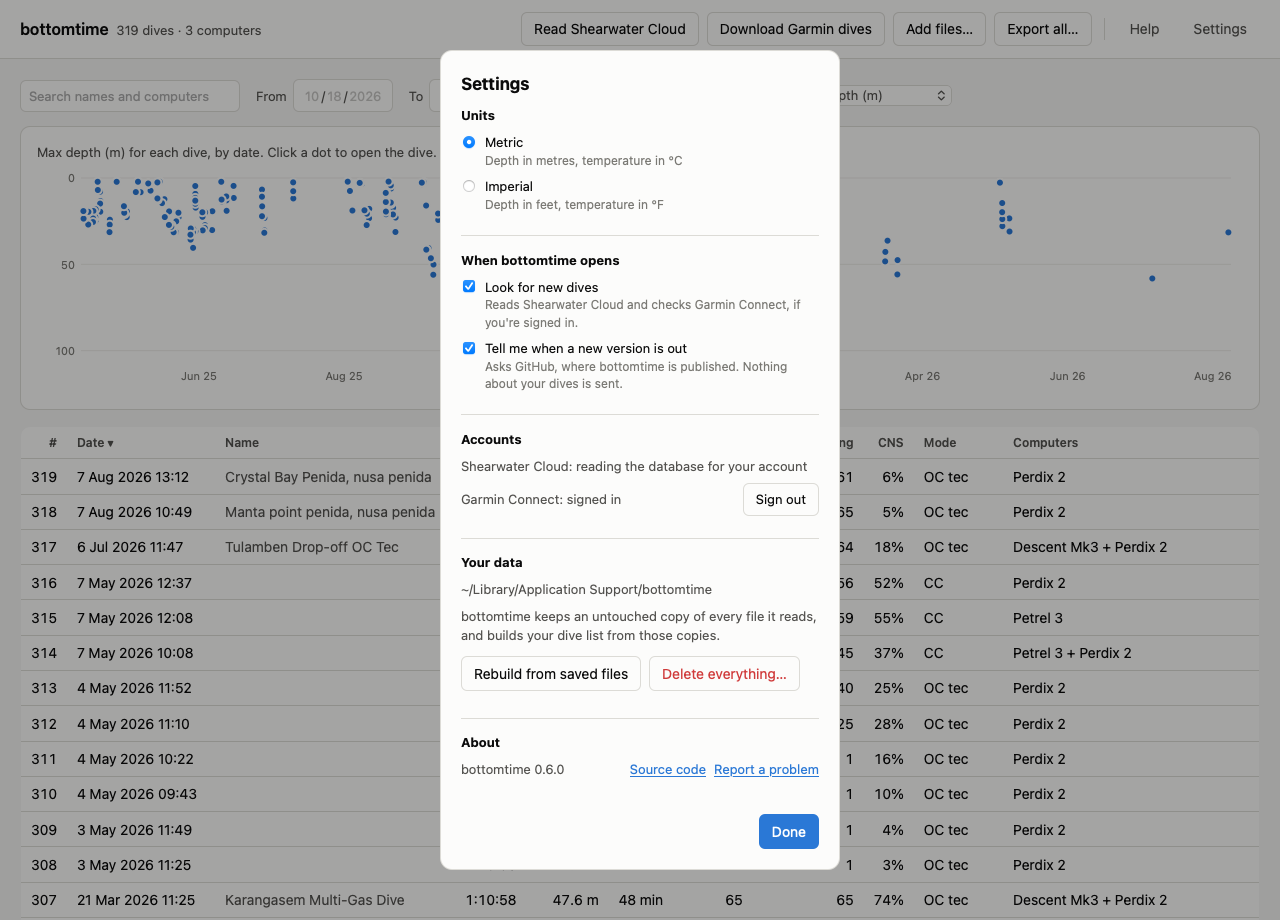
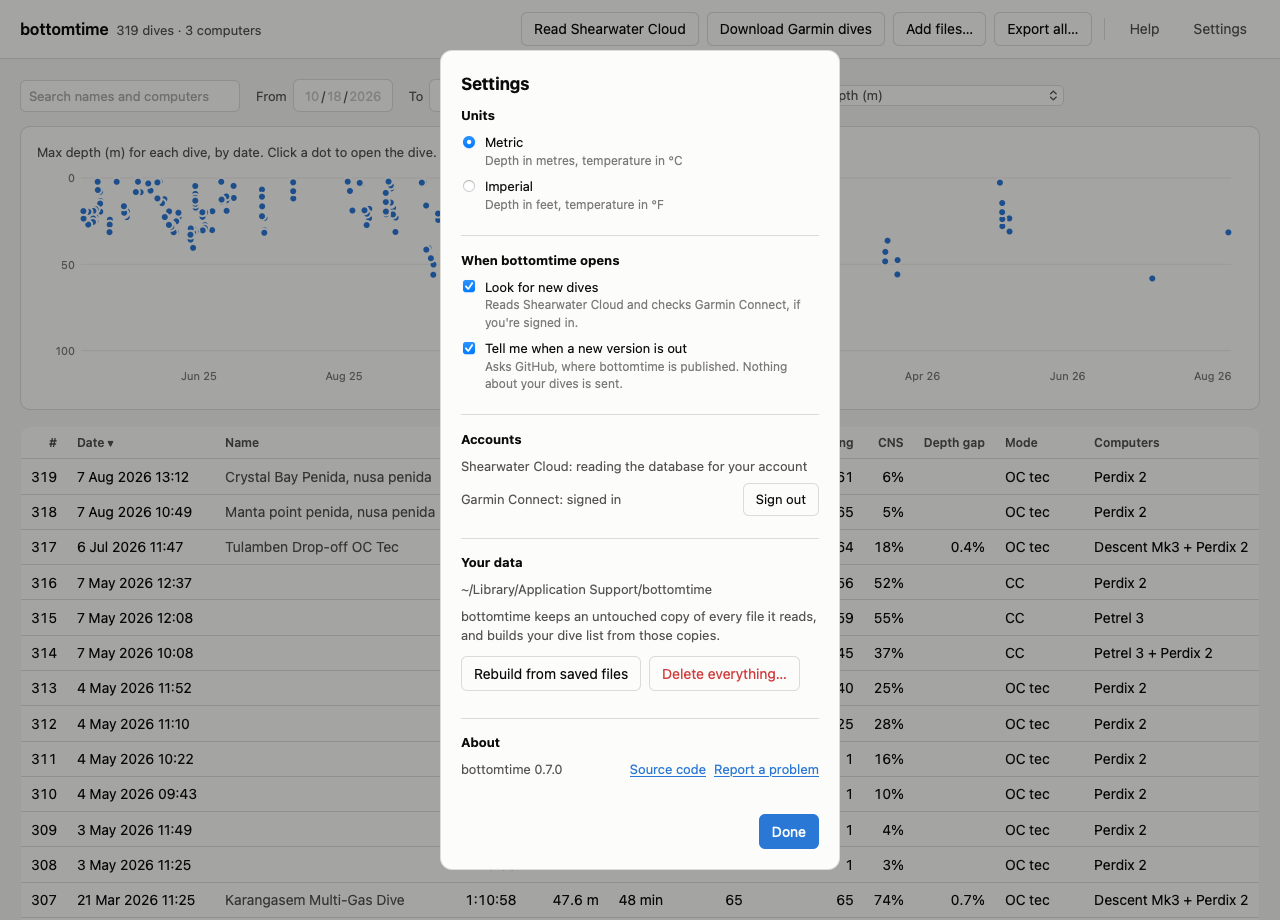
v0.7.0: document the comparison and the Intel download
The manual explains the comparison box, water density settings (including
Shearwater's salt at 1030 kg/m³ against Garmin's 1025), the Depth gap
column, and how to tell which Mac you have. How it works gives the
arithmetic and my numbers. The site and README offer both downloads, and the
screenshots show the comparison.

diff --git a/docs/index.html b/docs/index.html
@@ -27,14 +27,14 @@
   <h1>Every dive computer you wore, on one timeline</h1>
   <p class="lede">bottomtime is a free Mac app for divers who wear a Shearwater and a Garmin Descent. It reads the dives both computers recorded, lines up the two logs of each dive, and keeps every value they logged, including the GF99 and deco ceiling that Shearwater's exports leave out.</p>
   <div class="buttons">
-    <a class="button primary" href="https://github.com/snehankekre/bottomtime/releases/latest/download/bottomtime-mac.zip">Download for Mac</a>
-    <a class="button" href="manual.html">Read the manual</a>
+    <a class="button primary" href="https://github.com/snehankekre/bottomtime/releases/latest/download/bottomtime-mac.zip">Download for Apple silicon Macs</a>
+    <a class="button" href="https://github.com/snehankekre/bottomtime/releases/latest/download/bottomtime-mac-intel.zip">Download for Intel Macs</a>
   </div>
-  <p class="small">Free and open source. For Macs with Apple silicon, on macOS 11 or newer. <a href="manual.html#installing-bottomtime">How to install it</a>.</p>
+  <p class="small">Free and open source, for macOS 11 or newer. <a href="manual.html#installing-bottomtime">Which Mac do I have, and how do I install it?</a></p>
 </section>
 
 <figure class="shot">
-  <img src="images/dive.png" width="1280" height="1038" alt="A dive logged by a Garmin Descent Mk3 and a Shearwater Perdix 2: both depth profiles on one timeline with the Perdix's deco ceiling dashed, GF99 and ppO2 below, and a readout of both computers at 18:43 into the dive">
+  <img src="images/dive.png" width="1280" height="1460" alt="A dive logged by a Garmin Descent Mk3 and a Shearwater Perdix 2: both depth profiles on one timeline with the Perdix's deco ceiling dashed, GF99 and ppO2 below, and a readout of both computers at 18:43 into the dive">
   <figcaption>A 58 m dive in Tulamben, logged by a Garmin Descent Mk3 and a Shearwater Perdix 2. The readout shows both computers at 18:43 into the dive.</figcaption>
 </figure>
 
@@ -42,6 +42,10 @@
   <div>
     <h2>Both computers, one timeline</h2>
     <p>No two dive computers' clocks agree. bottomtime takes the time zone from the Garmin, then slides one depth profile along the other until they match, so you can read what each computer said at the same moment. Neither log is changed or resampled. It lines up any pair of computers, two Shearwaters included.</p>
+  </div>
+  <div>
+    <h2>What your computers disagreed about</h2>
+    <p>For every dive two computers logged, bottomtime says how far apart their depths were and how much of that their water density settings explain, and puts their gradient factors, deco, and CNS side by side. On my dives, the Perdix and the Descent were never set to the same water density.</p>
   </div>
   <div>
     <h2>Every value, kept</h2>

diff --git a/docs/manual.md b/docs/manual.md
@@ -33,12 +33,16 @@ it as spreadsheet files that you can open without bottomtime.
 
 ## Installing bottomtime
 
-bottomtime runs on Macs with Apple silicon (M1 or later) and macOS 11 Big Sur
-or newer. To check, open the Apple menu and choose About This Mac. The line
-that says Chip should start with "Apple M".
+bottomtime runs on macOS 11 Big Sur or newer. There are two downloads, one
+for each kind of Mac. To see which you have, open the Apple menu and choose
+About This Mac. If the line that says Chip starts with "Apple M", you have an
+Apple silicon Mac. If there's a line that says Processor and it names Intel,
+you have an Intel Mac.
 
-1. Download `bottomtime-mac.zip` from the
-   [latest release](https://github.com/snehankekre/bottomtime/releases/latest).
+1. Download [`bottomtime-mac.zip`](https://github.com/snehankekre/bottomtime/releases/latest/download/bottomtime-mac.zip)
+   for an Apple silicon Mac, or
+   [`bottomtime-mac-intel.zip`](https://github.com/snehankekre/bottomtime/releases/latest/download/bottomtime-mac-intel.zip)
+   for an Intel Mac.
 2. Double-click the zip file to unzip it, and drag `bottomtime` into your
    Applications folder.
 3. Open bottomtime from Applications. macOS will say that it can't verify
@@ -146,6 +150,7 @@ to sort by it, and click it again to reverse the order.
 | Max GF99 | The highest GF99 the Shearwater showed during the dive. |
 | GF99 surfacing | The highest GF99 in the last ten minutes of the dive. This matches the end-of-dive GF99 that Shearwater Cloud calculates. |
 | CNS | The highest oxygen exposure any computer showed. |
+| Depth gap | On dives two computers logged, how far apart their depths were below 5 m, as a percentage. The dive's page says which read deeper and why. |
 | Mode | The mode the computer was in, such as OC tec or CC. |
 | Computers | Every computer that logged the dive. |
 
@@ -161,7 +166,8 @@ dives. They're hidden unless you tick **Include pool and test dives**.
 
 The chart puts a dot for every dive in the list, by date. Choose what it shows
 with the Chart menu: max depth, GF99 at surfacing, max GF99, runtime, time in
-deco, or CNS. Hold the pointer over a dot to see which dive it is, and click
+deco, CNS, the depth gap between computers, or the difference in their deco
+time. Hold the pointer over a dot to see which dive it is, and click
 it to open that dive. The chart follows the search and the dates, so you can
 compare the dives of a single trip.
 
@@ -175,6 +181,36 @@ At the top is one card for each computer that logged the dive. It shows the
 computer's serial number, the time the dive started by that computer's own
 clock, the runtime and max depth that computer recorded, its mode, and the
 gases it had set up, written as oxygen/helium (21/0 is air, 50/0 is EAN50).
+
+### How the computers compared
+
+When two computers logged the dive, a box under the cards compares them.
+
+![The comparison for dive 317: the Perdix 2 read 0.4% deeper than the Descent Mk3, their water settings would have made it read 0.5% shallower, and a table of each computer's settings, required stops, and CNS](images/compare.png)
+
+The first sentence says how far apart the two computers' depths were, using
+every pair of readings taken deeper than 5 m within a second and a half of
+each other. It gives the median difference as a percentage and in metres.
+
+The next sentence says how much of that the computers' water density settings
+explain. A dive computer measures pressure and works out depth from it, so it
+needs to know how heavy the water is. A computer set to lighter water reads
+deeper. Fresh water (1000 kg/m³) reads 2% deeper than EN13319 (1020).
+Shearwater and Garmin also mean
+different things by "salt": 1030 kg/m³ on a Shearwater and 1025 on a Garmin.
+Whatever the settings don't explain comes from the computers themselves, or
+from where each was worn, since two computers on different arms can sit at
+different depths. On a shallow dive, a fixed difference like that is a large
+percentage, which is why the sentence gives metres too.
+
+When the computers showed different amounts of required stops, a sentence
+says so, and points out when they were set to different gradient factors.
+
+The table puts the two computers side by side: water setting, gradient
+factors, max depth, minutes of required stops, CNS at the end of the dive, and
+runtime. Values that differ are in bold.
+
+### The charts
 
 Below the cards are up to three charts on the same timeline:
 
@@ -345,6 +381,7 @@ Trash. Your dives in Shearwater Cloud and Garmin Connect stay where they are.
 |---|---|
 | GF99 | How close your leading tissue compartment is to its Bühlmann limit at your current depth, as a percentage. 100 means you are at the limit. |
 | Ceiling | The shallowest depth the computer would let you ascend to right now. |
+| Water density | The setting a dive computer uses to turn pressure into depth: 1000 kg/m³ for fresh water, 1020 for EN13319, and 1025 or 1030 for salt water depending on the maker. |
 | @+5 | What your time to surface would be if you stayed five more minutes at this depth. |
 | TTS | Time to surface, including every stop. |
 | NDL | No-decompression limit: the minutes left before you'd need a stop. |

diff --git a/README.md b/README.md
@@ -59,11 +59,11 @@ pandas, or whatever you analyze with.
 ## The Mac app
 
 If you'd rather not use a terminal, bottomtime is also a Mac app. It runs on
-Apple silicon Macs (M1 and later) with macOS 11 or newer, and has everything
-it needs inside it.
+macOS 11 or newer and has everything it needs inside it.
 
-1. Download [`bottomtime-mac.zip`](https://github.com/snehankekre/bottomtime/releases/latest/download/bottomtime-mac.zip),
-   unzip it, and drag `bottomtime` into Applications.
+1. Download [`bottomtime-mac.zip`](https://github.com/snehankekre/bottomtime/releases/latest/download/bottomtime-mac.zip)
+   for an Apple silicon Mac, or [`bottomtime-mac-intel.zip`](https://github.com/snehankekre/bottomtime/releases/latest/download/bottomtime-mac-intel.zip)
+   for an Intel Mac. Unzip it and drag `bottomtime` into Applications.
 2. Open it. macOS will say it can't verify the app, because the app isn't
    notarized by Apple. Open System Settings, go to Privacy & Security, scroll
    down to the message about bottomtime, and click Open Anyway. You only do
@@ -80,8 +80,11 @@ The app lists every dive with its runtime, max depth, deco time, GF99, and
 CNS, sorts and filters them, and charts any of those across your dives. Open a
 dive and every computer you wore is on one timeline: depth, the Shearwater's
 deco ceiling, GF99, and ppO2, with a readout of each computer at the same
-moment. **Export all** saves every dive as CSV in a zip file, so your data
-stays readable without bottomtime or the manufacturers' apps.
+moment. When two computers logged a dive, the app says how far apart their
+depths were and how much of that their water density settings explain, and
+puts their settings, deco, and CNS side by side. **Export all** saves every
+dive as CSV in a zip file, so your data stays readable without bottomtime or
+the manufacturers' apps.
 
 The first time you open the dive list, and the first time you open a dive, a
 short tour points out what each part does. Help explains every column and

diff --git a/docs/how-it-works.md b/docs/how-it-works.md
@@ -83,6 +83,32 @@ Dives shorter than 2 minutes or shallower than 2 m are marked as pool or test
 dives, left unnumbered, and never matched. Real dives are numbered in date
 order.
 
+## Comparing the computers
+
+A dive computer measures pressure and turns it into depth using the water
+density it's set to, so a computer set to lighter water reads deeper. Depth is
+proportional to one over the density: a computer set to fresh water (1000
+kg/m³) reads 1020/1000 − 1 = 2.0% deeper than one set to EN13319 (1020).
+Shearwater's salt setting is 1030 kg/m³ and Garmin's is 1025, so the same word
+on the two brands reads 0.5% apart.
+
+For each dive two computers logged, bottomtime pairs their depth readings on
+the shared timeline, keeping pairs taken within 1.5 seconds of each other with
+both deeper than 5 m. Shallower than that, a fixed offset between two wrists
+dominates the percentage. It needs at least 20 pairs. The median ratio is the
+depth gap, and the ratio of the two density settings is the part the settings
+explain. Both are on the dive's page, along with each computer's gradient
+factors, minutes of required stops, and CNS at the end.
+
+On my dives, 61 matched pairs have enough readings below 5 m. In every one,
+the two computers were set to different water densities. On 23 of them the
+Descent was on fresh water and the Perdix on EN13319, and those differ by a
+median of 1.7%. The settings explain the whole gap, to within 0.25 points, on
+23 of the 61. The median gap the settings don't explain is 0.29 points, or
+0.12 m. Two dives in December 2025 differ by 6%, with the Perdix a steady 0.6
+to 0.8 m shallower than the Descent at 9 to 15 m, which looks like where each
+computer was worn.
+
 ## Checking itself
 
 `bottomtime verify` runs four checks, and the numbers on this site come from

diff --git a/docs/cli.md b/docs/cli.md
@@ -127,6 +127,13 @@ Each log in `sources` has:
 | `header` | The decoded header, verbatim. |
 | `start_time_utc`, `start_time_local`, `duration_s`, `max_depth_m`, `sample_interval_ms`, `mode`, `device`, `name` | The log's own numbers. |
 
+`compare_logs(load_dive(db, n))` returns what the dive's computers said side
+by side: each log's water density, gradient factors, max depth, minutes of
+required stops, CNS at the end, and runtime, and for each log after the first,
+how much deeper it read than the first (`pct` and `m`, medians below 5 m) and
+how much of that the water settings predict (`settings_pct`). It returns None
+for a dive with one log.
+
 ## SQL
 
 The store is one SQLite file, so any SQLite tool reads it:
